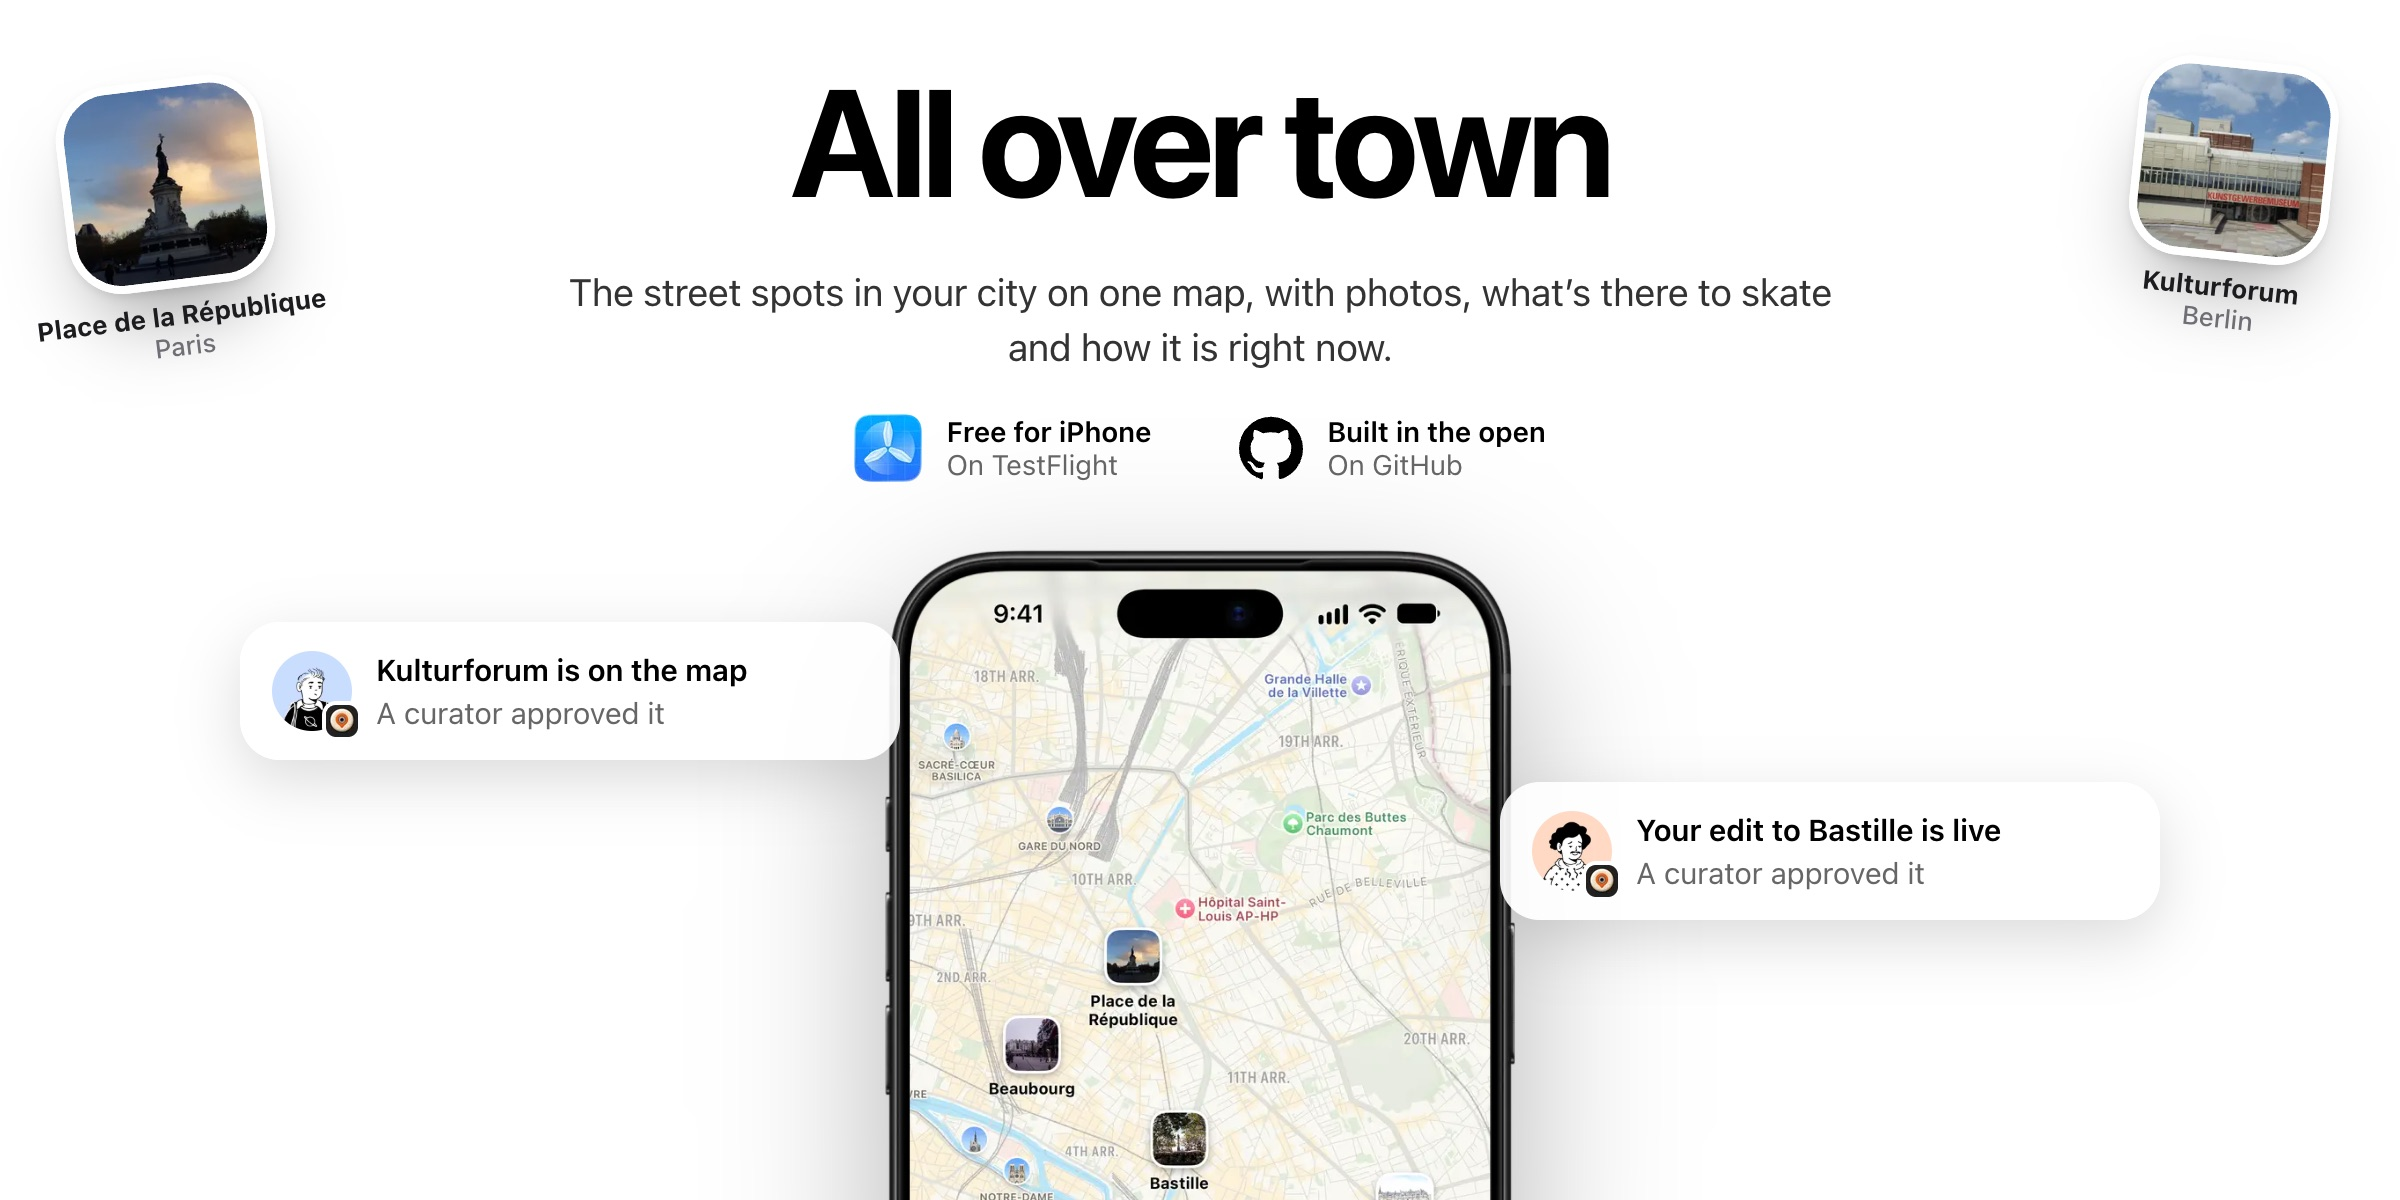
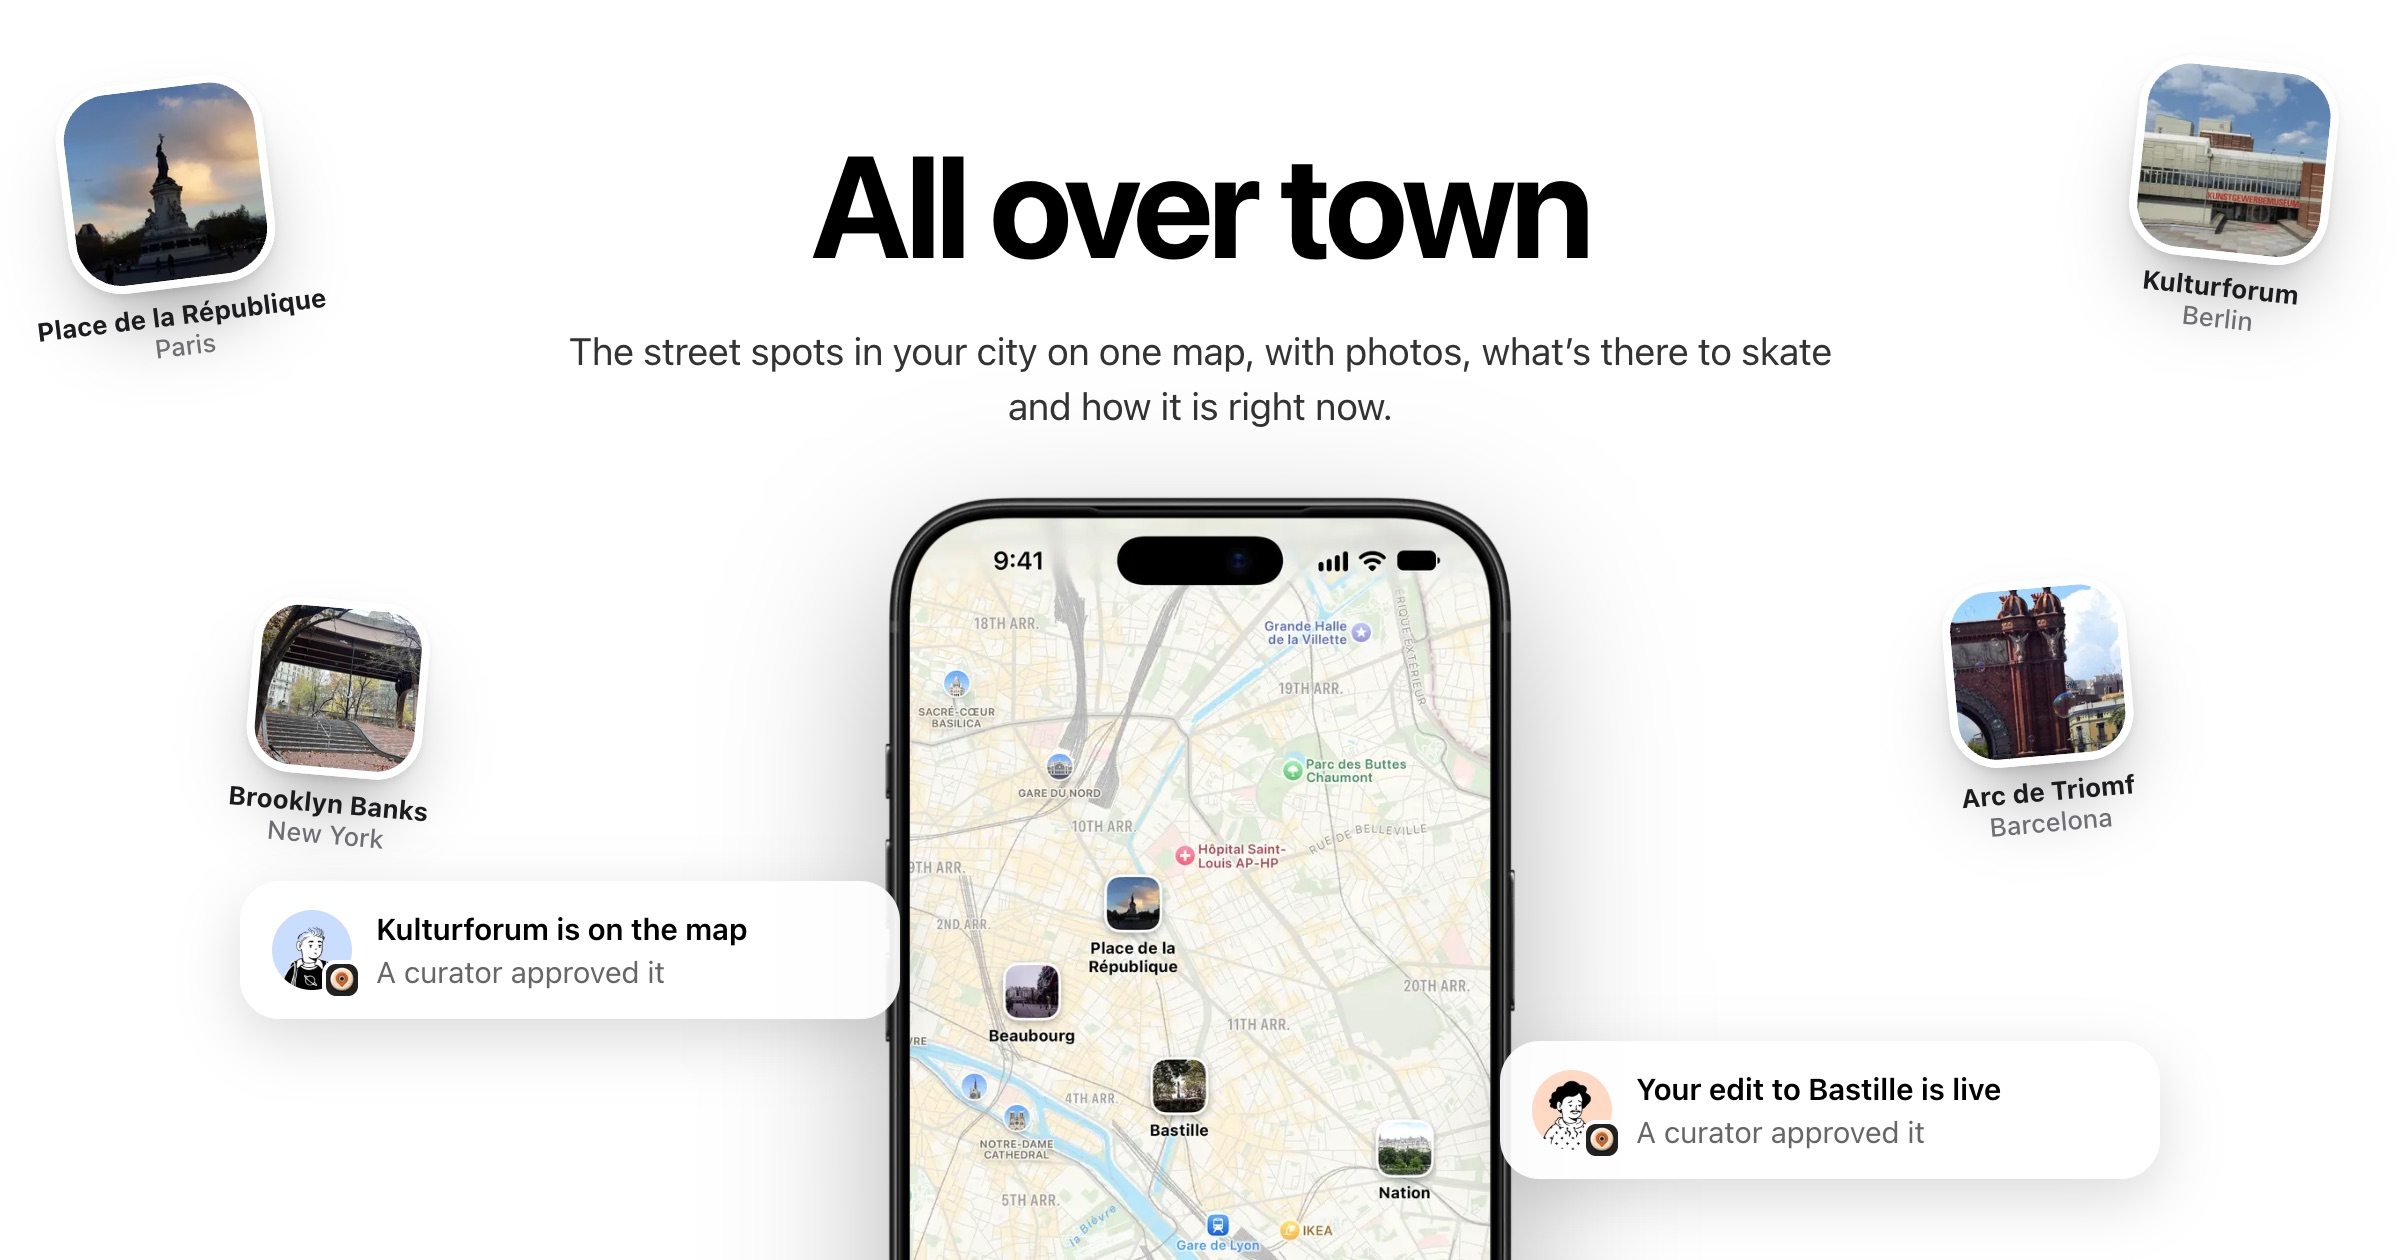
README header: the share image's composition, without the badges (#1)
The header now matches the home page's share image: the hero's headline
and lede, its four spots, the phone and two notes placed clear of them.
Credits, NOTICE and alt text follow, and the alt attribute is valid HTML
again.

diff --git a/apps/web/scripts/share-images.ts b/apps/web/scripts/share-images.ts
@@ -16,36 +16,31 @@ const still = `body > header, .nav-links, .tf-small { display: none !important; 
 .lede .more { display: none; }
 .lede { max-width: 640px; margin-inline: auto; }`;
 
-const images = [
-  {
-    name: "share",
-    size: { width: 1200, height: 630 },
-    // 1.5×, not 2×: WhatsApp drops link previews over ~300 KB.
-    scale: 1.5,
-    quality: 80,
-    outputs: [path.join(root, "site/share/home.jpg")],
-    css: `.badges, .stage-note:nth-of-type(3) { display: none !important; }
+// One composition for both: the hero's headline and lede, its four spots, the phone and two notes placed clear of them.
+const composition = `.badges, .stage-note:nth-of-type(3) { display: none !important; }
 .hero { padding-top: 64px !important; }
 .hero h1 { font-size: 72px !important; }
 .stage { margin-top: 28px !important; }
 .stage-note:nth-of-type(1) { top: 196px !important; }
-.stage-note:nth-of-type(2) { top: 276px !important; }`,
+.stage-note:nth-of-type(2) { top: 276px !important; }`;
+
+const images = [
+  {
+    name: "share",
+    // 1.5×, not 2×: WhatsApp drops link previews over ~300 KB.
+    scale: 1.5,
+    quality: 80,
+    outputs: [path.join(root, "site/share/home.jpg")],
   },
   {
     name: "readme",
-    size: { width: 1200, height: 600 },
     scale: 2,
     quality: 82,
     outputs: [path.join(root, "../../.github/assets/hero.jpg"), ...process.argv.slice(2)],
-    css: `.hp-2, .hp-4, .stage-note:nth-of-type(3) { display: none !important; }
-.hero { padding-top: 30px !important; }
-.hero h1 { font-size: 76px !important; }
-.badges { margin-top: 20px !important; }
-.stage { margin-top: 30px !important; }
-.stage-note:nth-of-type(1) { top: 40px !important; }
-.stage-note:nth-of-type(2) { top: 120px !important; }`,
   },
 ] as const;
+
+const size = { width: 1200, height: 630 };
 
 const home = await readFile(path.join(pages, "index.html"), "utf8").catch(() => {
   throw new Error("No built site: run `bun run build` first");
@@ -62,7 +57,7 @@ const server = Bun.serve({
   async fetch(request) {
     const { pathname } = new URL(request.url);
     const image = images.find((candidate) => pathname === `/__${candidate.name}`);
-    if (image) return new Response(page(image.css), { headers: { "Content-Type": "text/html; charset=utf-8" } });
+    if (image) return new Response(page(composition), { headers: { "Content-Type": "text/html; charset=utf-8" } });
     const file = Bun.file(path.join(pages, pathname.endsWith("/") ? `${pathname}index.html` : pathname));
     return (await file.exists()) ? new Response(file) : new Response("Not found", { status: 404 });
   },
@@ -77,7 +72,7 @@ try {
       chrome,
       "--headless",
       "--hide-scrollbars",
-      `--window-size=${image.size.width},${image.size.height}`,
+      `--window-size=${size.width},${size.height}`,
       `--force-device-scale-factor=${image.scale}`,
       "--virtual-time-budget=5000",
       `--screenshot=${png}`,

diff --git a/AGENTS.md b/AGENTS.md
@@ -27,7 +27,7 @@ through Hyperdrive, R2 for photos. The iOS app's client is generated from `apps/
   `/fonts/*` because Images loads fonts by URL. Pages are cached 5 minutes and cards a day (Cache API; the URL already carries the version and design). A spot the
   API doesn't know (removed, unknown, or the API unreachable) gets the generic `spot.html`. The Worker does layout
   only; Images does the pixels (written when the account was on Workers Free; it's on Workers Paid since 2026-10-13).
-- `apps/web/scripts/share-images.ts` — renders the home page's share image (`apps/web/site/share/home.jpg`, 1800 × 945: 1.5× keeps it under WhatsApp's ~300 KB preview limit) and the READMEs' header (`.github/assets/hero.jpg`; pass the iOS repo's path as an extra output) from the built landing page in headless Chrome, with a few CSS overrides per image. Run `bun run build` first, then the script, and commit both images.
+- `apps/web/scripts/share-images.ts` — renders the home page's share image (`apps/web/site/share/home.jpg`, 1800 × 945: 1.5× keeps it under WhatsApp's ~300 KB preview limit) and the READMEs' header (`.github/assets/hero.jpg`; pass the iOS repo's path as an extra output) from the built landing page in headless Chrome, as one composition (the hero without its badges, notes placed clear of the spots). Run `bun run build` first, then the script, and commit both images.
 - `packages/db` — Drizzle schema, SQL migrations, the connection helper, the migration runner.
 - `docker-compose.yml` — local Postgres 18 + PostGIS 3.6 on port 54330 (project name `openskatemap`).
 

diff --git a/NOTICE.md b/NOTICE.md
@@ -30,8 +30,8 @@ The `credits.json` in each folder holds the same records.
 
 | What | Terms |
 |---|---|
-| `icons/testflight.png`, and in `.github/assets/hero.jpg` | The TestFlight icon, a trademark of Apple Inc. |
-| The GitHub mark in `.github/assets/hero.jpg` and on the landing page | A trademark of GitHub, Inc. |
+| `icons/testflight.png` | The TestFlight icon, a trademark of Apple Inc. |
+| The GitHub mark on the landing page | A trademark of GitHub, Inc. |
 | `apple/iphone-black.webp` | The iPhone bezel from Apple Design Resources, used under Apple's License Agreement for Apple Design Resources |
 | `videos/*.jpg` | YouTube thumbnails of [Ace Trucks: Turn Right](https://www.youtube.com/watch?v=mZEVi6EvJPc) and [Lucien Genand: Boardslide Hood](https://www.youtube.com/watch?v=fQ0Il9tOfsA), © their owners |
 | Mona Sans (`apps/web/fonts`) | © GitHub, under the [SIL Open Font License 1.1](apps/web/fonts/OFL.txt) |

diff --git a/README.md b/README.md
@@ -1,5 +1,5 @@
 <p align="center">
-  <img src=".github/assets/hero.jpg" width="960" alt="All over town: the street spots in your city on one map. OpenSkateMap's map of Paris on an iPhone with photo pins, spot photos from Paris and Berlin, and two curator notes.>
+  <img src=".github/assets/hero.jpg" width="960" alt="All over town: the street spots in your city on one map. OpenSkateMap's map of Paris on an iPhone with photo pins, spots in Paris, Berlin, New York and Barcelona, and two curator notes.">
 </p>
 
 <h1 align="center">OpenSkateMap API</h1>
